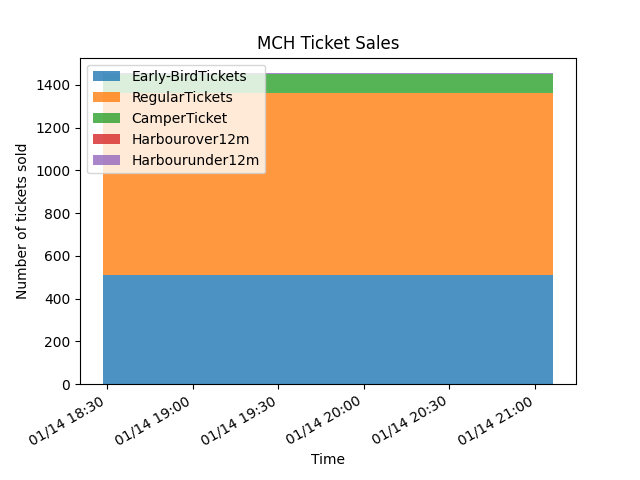
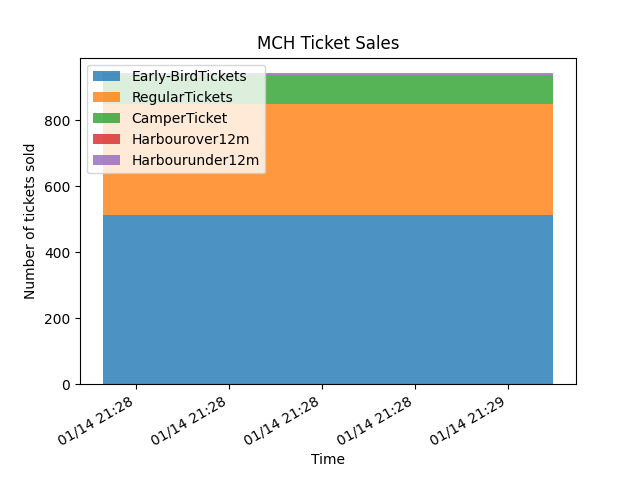
Fixed RegularTickets also including earlybird tickets in graph, renamed github action

diff --git a/main.py b/main.py
@@ -14,6 +14,10 @@ def get_updated_counters(tickets):
     new_data = {key: [tickets[key]["sold"]] for key in tickets.keys()}
     new_data["utc_epoch_time"] = time.time()
 
+    # RegularTickets includes Earlybirds, so need to subtract them for an accurate graph
+    if "Early-BirdTickets" in new_data and "RegularTickets" in new_data:
+        new_data["RegularTickets"][0] -= new_data["Early-BirdTickets"][0]
+
     filename = "tickets.csv"
     data = read_csv(filename)
     data = data.append(DataFrame(new_data), ignore_index=True)
